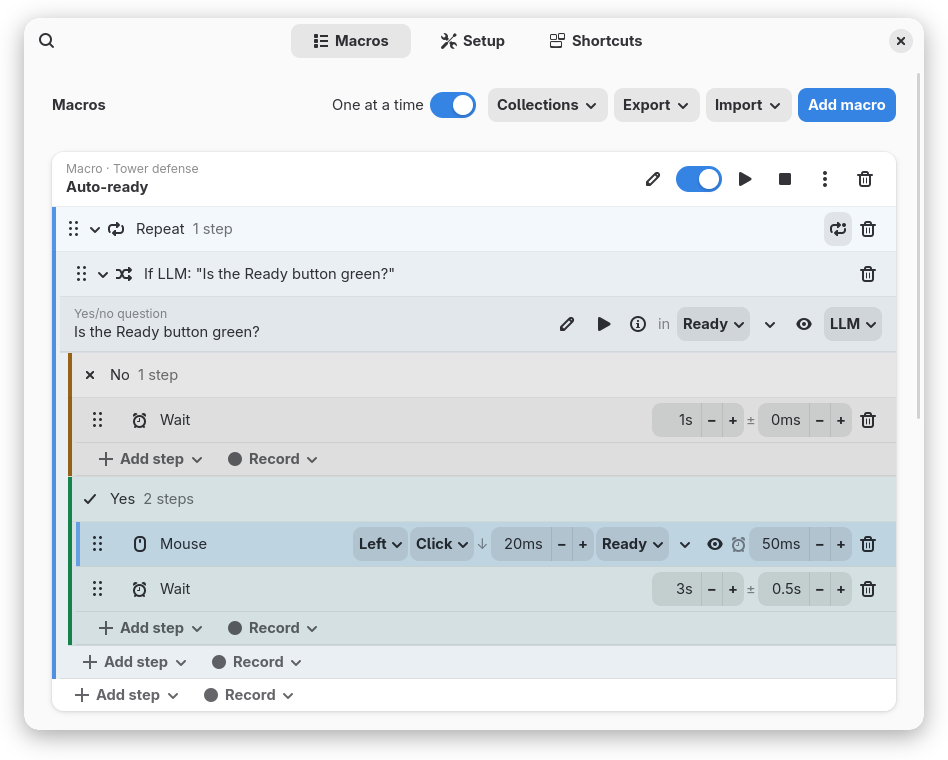
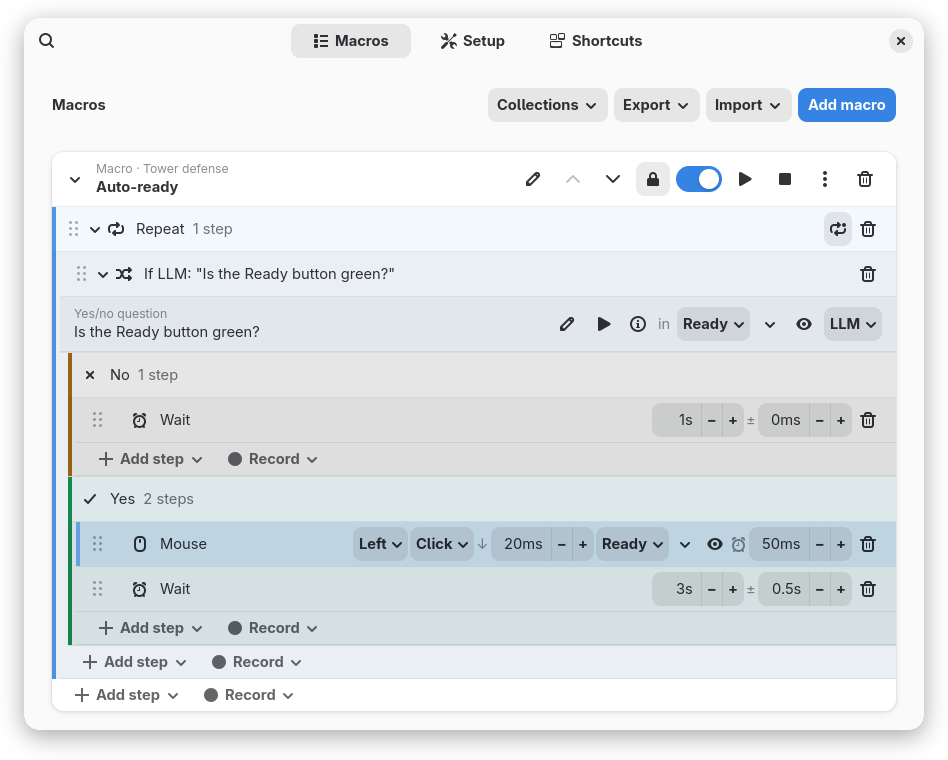
- Macros fold to their one line from the arrow on the left; ↑ ↓ on the   macro's line move it, in place of Move up/down in the ⋯ menu

diff --git a/gnome-shell/prefs.ts b/gnome-shell/prefs.ts
@@ -51,6 +51,7 @@ import {
     findStep,
     eventFollows,
     macroEnabled,
+    macroExclusive,
     moveStepTo,
     newCondition,
     newId,
@@ -1022,11 +1023,12 @@ export default class MacroclickwerkPreferences extends ExtensionPreferences {
         if (this._closed) {
             return;
         }
-        // Keys are `step:<id>`, for the repeats and ifs that fold. Keys of
-        // deleted steps are dropped here, or every step ever removed would
-        // leave its state behind forever.
+        // Keys are `step:<id>`, for the repeats and ifs that fold, and
+        // `macro:<id>` for the macros. Keys of deleted ones are dropped here,
+        // or everything ever removed would leave its state behind forever.
         const ids = new Set<string>();
         for (const macro of this._store.macros) {
+            ids.add(macro.id);
             walk(macro.body, location => { ids.add(location.step.id); });
         }
         const alive = (key: string) => ids.has(key.split(':')[1] ?? '');
@@ -1262,19 +1264,6 @@ export default class MacroclickwerkPreferences extends ExtensionPreferences {
             this._rebuildMacros();
         });
         const headerButtons = new Gtk.Box({ spacing: 6, valign: Gtk.Align.CENTER });
-        // Whether macros running together take turns. Bound, not read once:
-        // it is the shell that acts on it, and it does so as soon as it flips.
-        const oneAtATime = new Gtk.Box({
-            spacing: 6,
-            margin_end: 6,
-            tooltip_text: _('One macro acts at a time: another gets its turn only while this one is in a Wait step, ' +
-                'an On Event or a pause — not in the wait after a click or a key. Off: they act side by side'),
-        });
-        const exclusive = new Gtk.Switch({ valign: Gtk.Align.CENTER });
-        this._settings.bind('exclusive-runs', exclusive, 'active', Gio.SettingsBindFlags.DEFAULT);
-        oneAtATime.append(new Gtk.Label({ label: _('One at a time') }));
-        oneAtATime.append(exclusive);
-        headerButtons.append(oneAtATime);
         headerButtons.append(this._livePopupButton(new Gtk.MenuButton({
             label: _('Collections'),
             valign: Gtk.Align.CENTER,
@@ -1390,7 +1379,10 @@ export default class MacroclickwerkPreferences extends ExtensionPreferences {
         // run obeys another would be worse than no mark at all.
         const macro = this._store.activeMacro;
         const first = macro?.body[0];
-        if (macro && first && !this._targetRows.has(this._settings.get_string('record-into'))) {
+        // A folded macro has no rows to find the selection among, which is not
+        // the same as the selection being gone: it stays where it was.
+        if (macro && first && !this._macroFolded(macro) &&
+            !this._targetRows.has(this._settings.get_string('record-into'))) {
             this._selectTarget(macro.id, `after:${first.id}`);
         }
 
@@ -1766,6 +1758,28 @@ export default class MacroclickwerkPreferences extends ExtensionPreferences {
             this._save();
         });
 
+        // One at a time: a lock, pressed in while it takes turns with the
+        // others — a second switch beside the on/off one would read as the same.
+        const exclusive = new Gtk.ToggleButton({
+            active: macroExclusive(macro),
+            valign: Gtk.Align.CENTER,
+            css_classes: ['flat'],
+        });
+        const showExclusive = () => {
+            const on = exclusive.get_active();
+            exclusive.set_icon_name(on ? 'changes-prevent-symbolic' : 'changes-allow-symbolic');
+            exclusive.set_tooltip_text(on
+                ? _('One at a time — takes turns with the others that do: acts until a Wait, an On Event, ' +
+                    'a pause or the next round of a Repeat, then lets them go first')
+                : _('Side by side — acts whenever it likes, without waiting for or holding up any other'));
+        };
+        showExclusive();
+        exclusive.connect('toggled', () => {
+            macro.exclusive = exclusive.get_active() ? undefined : false;
+            showExclusive();
+            this._save();
+        });
+
         const remove = iconButton('user-trash-symbolic', _('Delete this macro'), () => {
             this._store.removeMacro(macro.id);
             this._rebuildMacros();
@@ -1783,14 +1797,58 @@ export default class MacroclickwerkPreferences extends ExtensionPreferences {
             icon_name: 'view-more-symbolic',
             valign: Gtk.Align.CENTER,
             css_classes: ['flat'],
-            tooltip_text: _('Move up or down, or to another collection'),
+            tooltip_text: _('Move or copy it to a collection'),
         }), () => this._macroChoices(macro));
         // The order every line in the editor keeps: what this line is about,
         // then ▶, then the bin last.
-        for (const widget of [enabled, runButton, stopButton, more, remove]) {
+        // Its place in the list, on its line: a step up or down among the
+        // macros shown, greyed out at either end.
+        const doc = this._store.document;
+        const shown = doc.macros.filter(other => macroLive(doc, other));
+        const index = shown.indexOf(macro);
+        const step = (delta: 1 | -1) => {
+            const button = iconButton(delta < 0 ? 'go-up-symbolic' : 'go-down-symbolic',
+                delta < 0 ? _('Move this macro up') : _('Move this macro down'), () => {
+                    moveMacro(doc, macro.id, delta);
+                    this._saveAndRebuild();
+                });
+            button.set_sensitive(delta < 0 ? index > 0 : index < shown.length - 1);
+            return button;
+        };
+        for (const widget of [step(-1), step(1), exclusive, enabled, runButton, stopButton, more, remove]) {
             nameRow.add_suffix(widget);
         }
         group.add(nameRow);
+
+        // Folded, a macro is its one line: the arrow on the left, the way a
+        // Repeat or an If folds, and remembered the same way. Drawn that way
+        // rather than hidden after: folding redraws the page, so nothing under
+        // the line can come back on its own — an If's Yes and No follow their
+        // If, and would otherwise follow it back into view.
+        const folded = this._macroFolded(macro);
+        const fold = new Gtk.Button({
+            valign: Gtk.Align.CENTER,
+            icon_name: folded ? 'pan-end-symbolic' : 'pan-down-symbolic',
+            css_classes: ['flat', 'macroclickwerk-fold'],
+            tooltip_text: _('Fold or unfold'),
+        });
+        fold.connect('clicked', () => {
+            const key = `macro:${macro.id}`;
+            if (folded) {
+                this._collapsed.delete(key);
+            } else {
+                this._collapsed.add(key);
+            }
+            this._persistExpansion();
+            this._rebuildMacros();
+        });
+        nameRow.add_prefix(fold);
+        if (folded) {
+            // It still says how much is in it, as a folded Repeat does.
+            const count = macro.body.length;
+            nameRow.set_title(`${nameRow.get_title()} · ${count} ${count === 1 ? _('step') : _('steps')}`);
+            return group;
+        }
 
         const addRow = this._addStepRow(macro.body, macro.id, null, null);
         this._selectable(addRow, `end:${macro.id}`, macro.id);
@@ -2914,22 +2972,18 @@ export default class MacroclickwerkPreferences extends ExtensionPreferences {
         return macroLive(this._store.document, macro) ? macro.name : `${macro.name} (${_('off')})`;
     }
 
-    /** What a macro's ⋯ offers: its place in the list, and its collection. */
+    private _macroFolded(macro: Macro): boolean {
+        return this._collapsed.has(`macro:${macro.id}`);
+    }
+
+    /** What a macro's ⋯ offers: its collection. */
     private _macroChoices(macro: Macro): Choice[] {
         const doc = this._store.document;
-        const shown = doc.macros.filter(other => macroLive(doc, other));
-        const index = shown.indexOf(macro);
         const choices: Choice[] = [];
         const act = (change: () => void) => () => {
             change();
             this._saveAndRebuild();
         };
-        if (index > 0) {
-            choices.push({ label: _('Move up'), run: act(() => moveMacro(doc, macro.id, -1)) });
-        }
-        if (index >= 0 && index < shown.length - 1) {
-            choices.push({ label: _('Move down'), run: act(() => moveMacro(doc, macro.id, 1)) });
-        }
         for (const path of collectionPaths(doc)) {
             const name = collectionName(path);
             // Into one switched off is out of sight, so it says so.

diff --git a/gnome-shell/src/runner.ts b/gnome-shell/src/runner.ts
@@ -33,7 +33,7 @@ import type {
     TextStep,
     WaitStep,
 } from './model.js';
-import { describeStep, findStep, pathToStep, prettySource } from './model.js';
+import { describeStep, findStep, macroExclusive, pathToStep, prettySource } from './model.js';
 import { reportProblem } from './problems.js';
 
 export type FinishReason = 'done' | 'stopped' | 'error';
@@ -90,24 +90,15 @@ export interface RunnerCallbacks {
  * then clicks — and gives it up only where it stands still on purpose: a Wait
  * step, an On Event, a pause — and after each round of a Repeat. Whoever asked
  * next goes then, in the order they asked, and a run that wants the turn back
- * waits until no one else has it. With `exclusive` off, everyone always has
- * the turn.
+ * waits until no one else has it. Only macros that are one at a time take
+ * part; see `Macro.exclusive`.
  */
 export class Turn {
-    private _exclusive = true;
     private _holder: object | null = null;
     private _queue: { who: object; go: () => void }[] = [];
 
-    set exclusive(on: boolean) {
-        this._exclusive = on;
-        if (!on) {
-            this._holder = null;
-            this._queue.splice(0).forEach(waiting => waiting.go());
-        }
-    }
-
     take(who: object): Promise<void> {
-        if (!this._exclusive || this._holder === who) {
+        if (this._holder === who) {
             return Promise.resolve();
         }
         if (this._holder === null) {
@@ -232,8 +223,10 @@ export class MacroRunner {
      */
     private _held = new Set<number>();
 
-    /** Shared by every runner when macros take turns; none, and this one never waits for another. */
-    private _turn: Turn | null;
+    /** Shared by every runner, for the macros that take turns. */
+    private _sharedTurn: Turn | null;
+    /** The shared turn while running a macro that takes turns; null otherwise. */
+    private _turn: Turn | null = null;
 
     constructor(
         daemon: DaemonClient,
@@ -244,7 +237,7 @@ export class MacroRunner {
         this._daemon = daemon;
         this._evaluator = evaluator;
         this._callbacks = callbacks;
-        this._turn = turn;
+        this._sharedTurn = turn;
     }
 
     get running(): boolean {
@@ -320,6 +313,7 @@ export class MacroRunner {
         this._failedAt = '';
         this._failedStepId = '';
         this._macroId = macro.id;
+        this._turn = macroExclusive(macro) ? this._sharedTurn : null;
         this._inputEdge = null;
         this._warnedEmptyLoops.clear();
         this._held.clear();
@@ -386,6 +380,8 @@ export class MacroRunner {
         this._cancelled = false;
         this._path = [];
         this._failedAt = '';
+        // A single step tried from the editor is not a turn of anyone's.
+        this._turn = null;
         this._inputEdge = null;
         this._warnedEmptyLoops.clear();
         this._callbacks.onRunningChanged?.(true);
@@ -403,7 +399,6 @@ export class MacroRunner {
                 error: error as Error,
             });
         } finally {
-            this._turn?.give(this);
             this._running = false;
             this._path = [];
             this._callbacks.onStepsChanged?.([]);

diff --git a/gnome-shell/extension.ts b/gnome-shell/extension.ts
@@ -81,7 +81,7 @@ export default class MacroclickwerkExtension extends Extension {
      * daemon between them: see `Turn`.
      */
     private _runners = new Map<string, MacroRunner>();
-    /** Whose turn it is to act, shared by every runner — see `exclusive-runs`. */
+    /** Whose turn it is to act, shared by every runner — see `Turn`. */
     private _turn = new Turn();
     /**
      * Macros a `start` step asked for while they were already running, mapped
@@ -132,7 +132,6 @@ export default class MacroclickwerkExtension extends Extension {
         const config = this._store.config;
         this._daemon = new DaemonClient(config.controlSocket, config.eventSocket);
         this._evaluator = new ConditionEvaluator(config, trace => this._onTrace(trace), flashRegion);
-        this._turn.exclusive = this._settings.get_boolean('exclusive-runs');
         this._recorder = new Recorder(this._daemon, config, {
             onStatus: text => this._onStatus(text),
             onError: error => {
@@ -1132,10 +1131,6 @@ export default class MacroclickwerkExtension extends Extension {
         }
         if (key === 'triggers') {
             this._triggers?.setTriggers(parseTriggers(this._settings?.get_string('triggers') ?? '[]'));
-            return;
-        }
-        if (key === 'exclusive-runs') {
-            this._turn.exclusive = this._settings?.get_boolean(key) ?? true;
             return;
         }
         if (key === 'expanded-rows') {

diff --git a/gnome-shell/src/model.ts b/gnome-shell/src/model.ts
@@ -267,12 +267,23 @@ export interface Macro {
      */
     enabled?: boolean;
     /**
+     * Whether this one takes turns with the others that do — see `Turn`.
+     * Absent counts as yes; one that does not acts whenever it likes, and
+     * neither waits for the turn nor holds anyone else up.
+     */
+    exclusive?: boolean;
+    /**
      * The file of the collection this macro belongs to, when it was loaded
      * from one or put into one — see `loadCollection`. Absent: in no
      * collection. Never written into a collection's own file.
      */
     collection?: string;
     body: Step[];
+}
+
+/** Absent means yes: see `Macro.exclusive`. */
+export function macroExclusive(macro: Macro): boolean {
+    return macro.exclusive !== false;
 }
 
 /** Absent means on: see `Macro.enabled`. */
@@ -1408,6 +1419,7 @@ export function parseDocument(json: string): MacroDocument {
                 // the store tells a document from before the flag existed by
                 // the fact that nothing in it carries one.
                 enabled: typeof macro.enabled === 'boolean' ? macro.enabled : undefined,
+                exclusive: macro.exclusive === false ? false : undefined,
                 collection: typeof macro.collection === 'string' && macro.collection !== ''
                     ? macro.collection : undefined,
                 body: Array.isArray(macro.body) ? macro.body : [],

diff --git a/README.md b/README.md
@@ -121,8 +121,8 @@ goes to the On Event, not to the shortcut list.
   wherever it comes to rest, and idle gaps become waits. Record into any row —
   into the middle of a loop, say — and watch that row go red while it runs.
 - **A one-line-per-step editor** — every setting of a step on its own line;
-  Repeat and If fold from the arrow on their left; steps move by dragging the
-  grip. Times step with − and +; every number field with ↑/↓, or the scroll
+  macros, Repeat and If fold from the arrow on their left; steps move by
+  dragging the grip, macros by the ↑ ↓ on their line. Times step with − and +; every number field with ↑/↓, or the scroll
   wheel once focused.
 - **A wait after any action** — the ⏰ time on a click, move, key, text or
   scroll gives the game a frame to register it before the next step.
@@ -150,7 +150,7 @@ goes to the On Event, not to the shortcut list.
   and picking the place again moves everything aimed at it.
 - **Collections** — keep macros in files of their own, one per game, saved
   and loaded alongside the rest, and switched on and off as one; a ⋯ on each
-  macro moves or copies it into one, or up and down the list.
+  macro moves or copies it into one.
 - **Backup** — **Export** and **Import** next to **Add macro**, for the macros
   and for the settings, to a file you choose.
 
@@ -390,20 +390,22 @@ macro that is switched on — all of them, at the same time. They are independen
 each keeps its own place in its own steps, and one finishing or failing does not
 touch the others. What they share is the machine, so they take turns at it.
 
-With **One at a time** on — the switch at the top of the Macros page, and the
-default — a macro that has the turn keeps it until it stands still on purpose:
-a **Wait** step, an **On Event** waiting for its button, or a pause — or until
-it comes round a **Repeat**, which gives the others a go after every round.
-Only then does the next one act. The first does not leave its Wait the moment
-the time is up: it carries on once nobody else is acting, so the other always
-finishes what it is doing first. Everything else keeps it: the hold of a click, the ⏰ wait after
-a key, an If asking the model and then clicking on its answer — so "look, then
-click" is never cut in half by another macro clicking somewhere else in
-between. The price is that a macro waiting for the turn waits for as long as
-the other one acts; a long model check in one holds up the rest, an On Event
-reacting to a side button included.
+A macro that is **one at a time** — the 🔒 beside its switch, pressed in by
+default — takes turns with the others that are. One that has the turn keeps it
+until it stands still on purpose: a **Wait** step, an **On Event** waiting for
+its button, or a pause — or until it comes round a **Repeat**, which gives the
+others a go after every round. Only then does the next one act. The first does
+not leave its Wait the moment the time is up: it carries on once no other is
+acting, so the other always finishes what it is doing first. Everything else
+keeps the turn: the hold of a click, the ⏰ wait after a key, an If asking the
+model and then clicking on its answer — so "look, then click" is never cut in
+half by another macro clicking somewhere else in between. The price is that a
+macro waiting for the turn waits for as long as the other one acts; a long
+model check in one holds up the rest.
 
-With it off, they act side by side, a step each. A step is still the unit: a
+A macro with the lock open acts side by side with everything, a step at a time,
+neither waiting for the turn nor holding anyone up — for something like a
+hold-to-sprint button that must answer at once. A step is still the unit: a
 click at a fixed position holds the pointer for the whole move *and* the click
 at the end of it, so no other macro can land a nudge in the middle and leave it
 clicking somewhere else.
@@ -523,6 +525,11 @@ put the step before it, the bottom half to put it after; drop on a Repeat or
 On Event header to put it first inside, and hover over a folded Repeat to spring it
 open. A step moves with everything inside it. Repeat and If fold from the arrow
 on their left; the rest of the header is for selecting, like any other row.
+
+A macro folds the same way, from the arrow left of its name, down to its one
+line — which then says how many steps it holds — and stays folded the next
+time the window opens. The **↑** and **↓** on that line move the macro up and
+down the list, greyed out at either end.
 
 Coordinates are single fields — `100, 200` for a point, `10, 20, 40, 40` for an
 area — sized to what is in them. Beside each, **⌖ Pick** fills the field by
@@ -645,8 +652,8 @@ collection…** brings one in, or any export of macros. Each has a switch in the
 menu: off puts its macros away — out of the editor, out of Run, and a shortcut
 or a Start aimed at one says the collection is off — and on brings them back,
 nothing forgotten in between. Its named points and areas come and go with it. A macro
-from a collection says so above its name, and the ⋯ on every macro moves it up
-or down, moves or copies it into a collection or a new one, or takes it out of
+from a collection says so above its name, and the ⋯ on every macro moves or
+copies it into a collection or a new one, or takes it out of
 the one it is in; a collection left with no macros is gone. **Save** writes a
 collection back to its file, marked with a • while it has changes that are not
 in the file yet; **Save as** writes it somewhere else and keeps working on that
